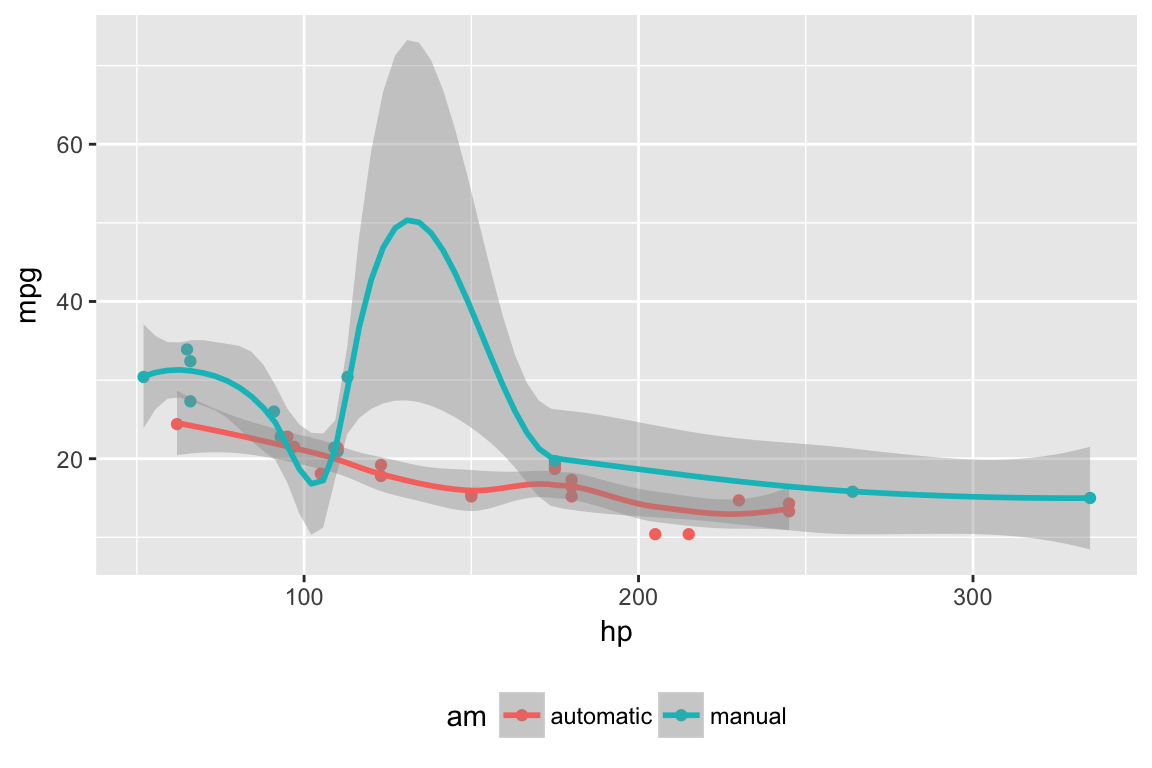
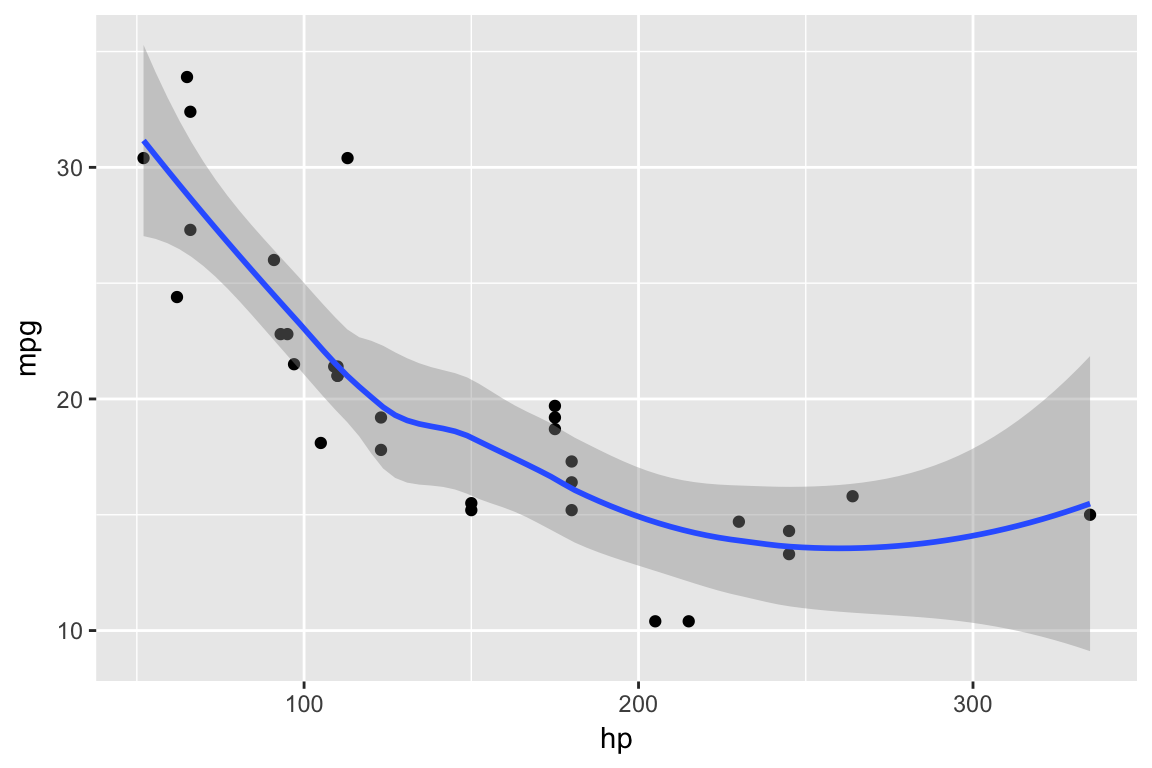
change aside figure

diff --git a/docs/index.html b/docs/index.html
@@ -542,10 +542,7 @@ This content will appear in the gutter of the article.
 <pre class="clike"><code>
 &lt;aside&gt;
 ```{r}
-mtcars$am &lt;- factor(mtcars$am, labels = c(&#39;automatic&#39;, &#39;manual&#39;))
-ggplot(mtcars, aes(hp, mpg, color = am)) +
-  geom_point() + geom_smooth() +
-  theme(legend.position = &#39;bottom&#39;)
+ggplot(mtcars, aes(hp, mpg)) + geom_point() + geom_smooth()
 ```
 &lt;/aside&gt;</code></pre>
 <aside>
